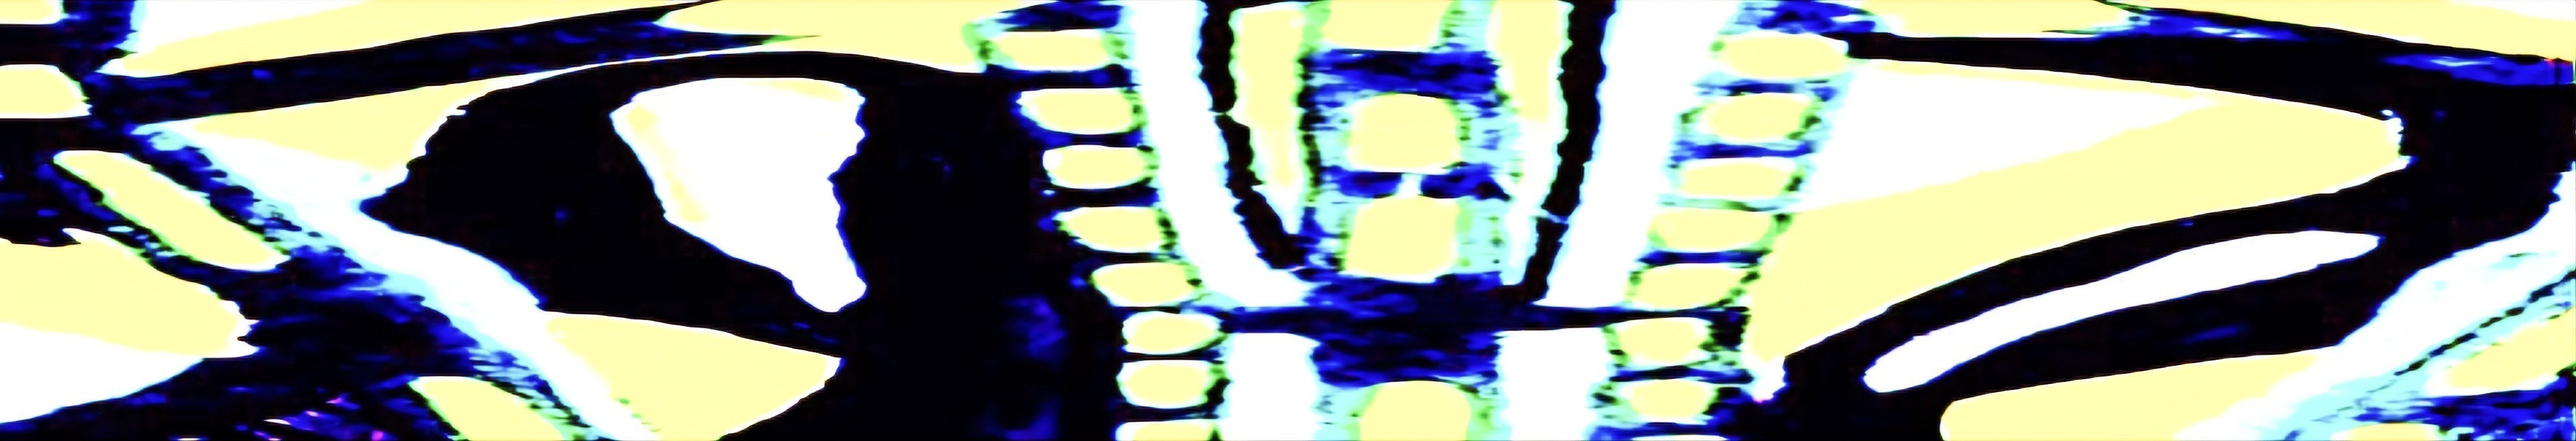
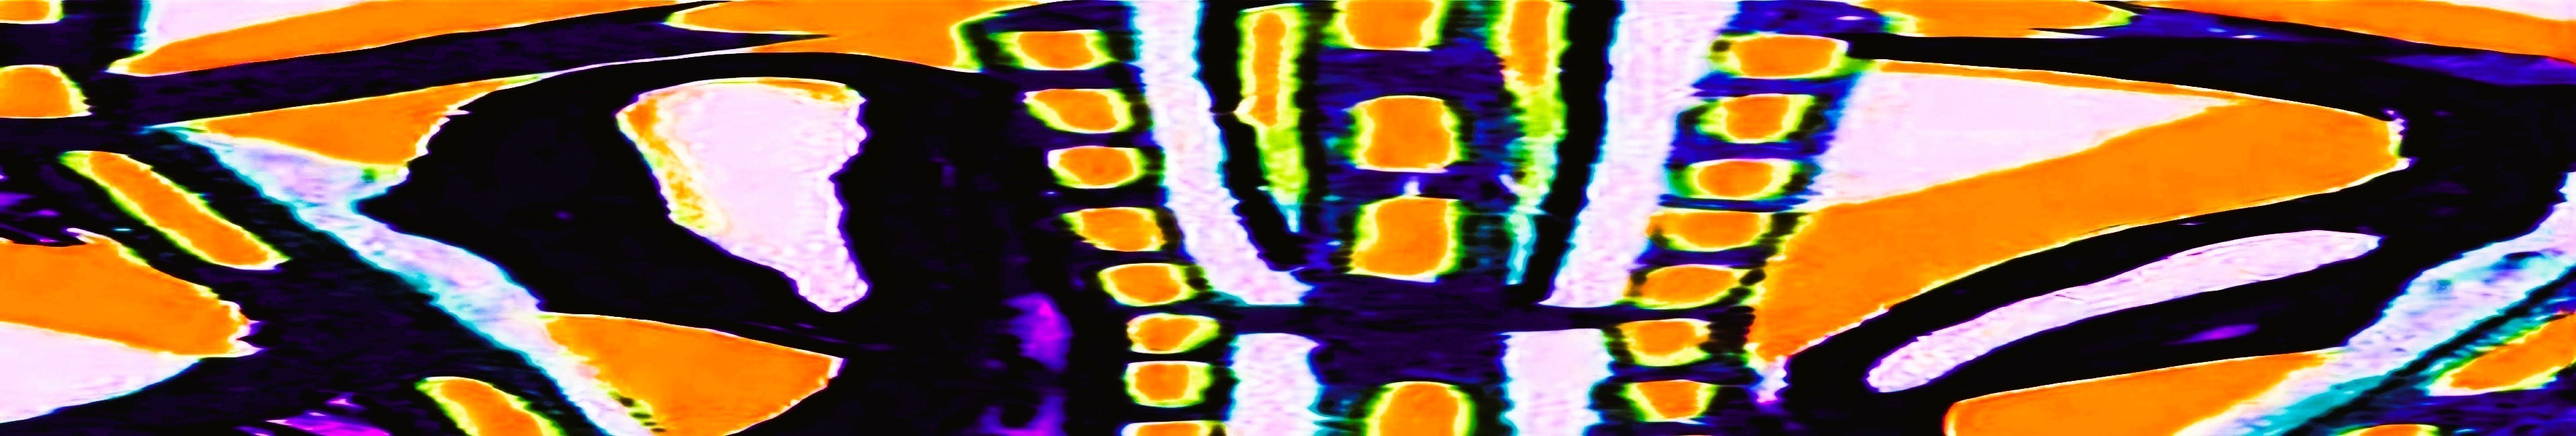
Upravy obrazu 20.10.

diff --git a/obrazy.html b/obrazy.html
@@ -13,13 +13,18 @@
 
   <header class="site-header">
     <div class="nav-banner-outer nav-banner-stack">
-      <div class="nav-banner nav-banner--desktop-single">
+      <div class="nav-banner nav-banner--desktop-short">
         <picture>
           <source media="(max-width: 900px)" srcset="images/web/obrazy-mobil-pruh.webp">
-          <img src="images/web/obrazy-pc.webp" alt="" fetchpriority="high">
+          <img src="images/web/obrazy-pc-pruh.webp" alt="" fetchpriority="high">
         </picture>
       </div>
-      <div class="nav-banner nav-banner--mobile-only"><img src="images/web/obrazy-mobil-obraz.webp" alt="" fetchpriority="high"></div>
+      <div class="nav-banner nav-banner--desktop-tall">
+        <picture>
+          <source media="(max-width: 900px)" srcset="images/web/obrazy-mobil-obraz.webp">
+          <img src="images/web/obrazy-pc-obraz.webp" alt="" fetchpriority="high">
+        </picture>
+      </div>
     </div>
     <div class="site-bar">
       <div class="container site-bar-inner">
